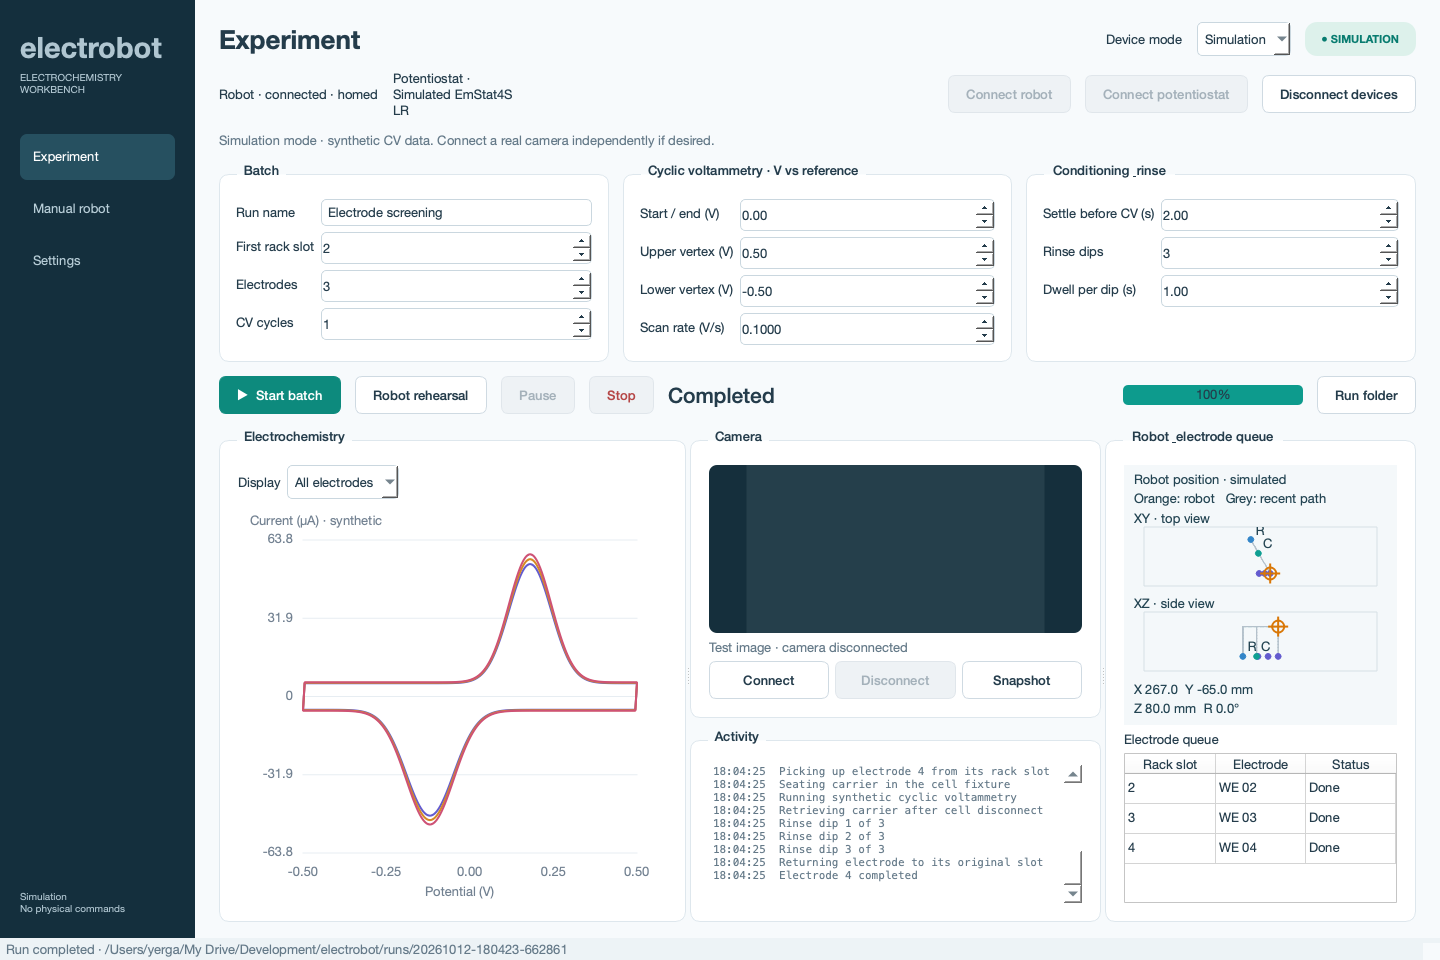
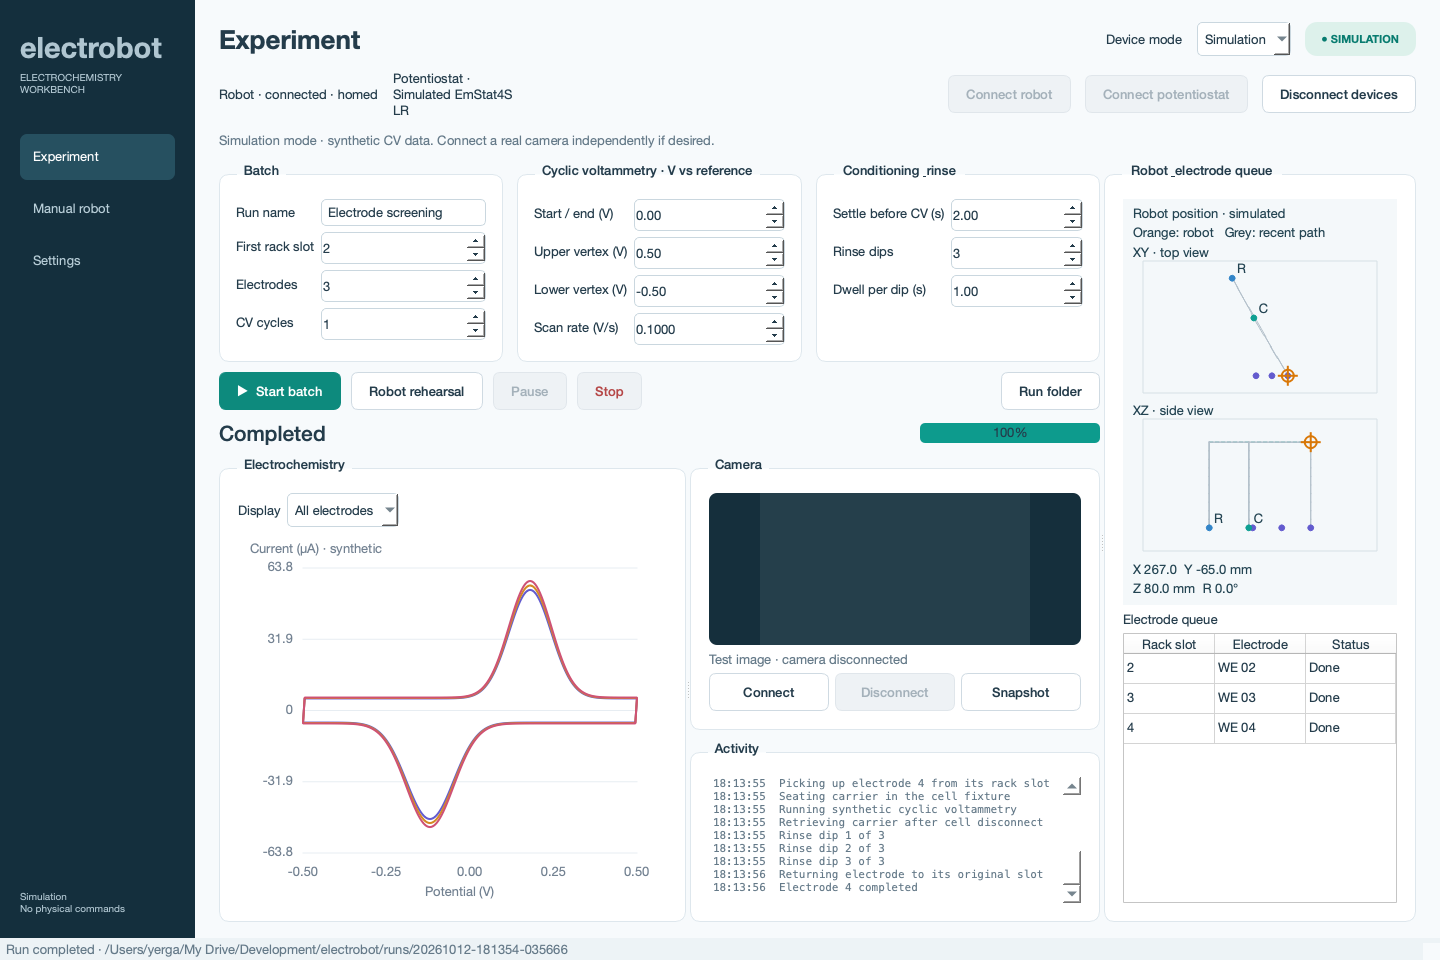
Raise Experiment robot panel and expand electrode queue

diff --git a/electrobot/app.py b/electrobot/app.py
@@ -190,6 +190,9 @@ class Window(QMainWindow):
         for b in (self.connect_robot,self.connect_pot,self.disconnect): devices.addWidget(b)
         l.addLayout(devices)
         self.mode_note=self.note('Simulation mode · synthetic CV data. Connect a real camera independently if desired.'); l.addWidget(self.mode_note)
+        dashboard=QSplitter(Qt.Orientation.Horizontal)
+        experiment=QWidget(); experiment_layout=QVBoxLayout(experiment); experiment_layout.setContentsMargins(0,0,0,0); experiment_layout.setSpacing(10)
+        dashboard.addWidget(experiment)
         self.setup_box=QWidget(); setup=QHBoxLayout(self.setup_box); setup.setContentsMargins(0,0,0,0); setup.setSpacing(14)
         self.batch_group=self.settings_group('Batch', [('run_name','Run name'),('first_electrode','First rack slot',1,100),('electrodes','Electrodes',1,100),('cycles','CV cycles',1,100)])
         self.cv_group=self.settings_group('Cyclic voltammetry · V vs reference', [('start_v','Start / end (V)',-3,3),('vertex1_v','Upper vertex (V)',-3,3),('vertex2_v','Lower vertex (V)',-3,3),('scan_rate','Scan rate (V/s)',.0001,10)])
@@ -198,12 +201,14 @@ class Window(QMainWindow):
             group.layout().setVerticalSpacing(6)
             group.setStyleSheet('QSpinBox,QDoubleSpinBox,QLineEdit { padding:4px; }')
             setup.addWidget(group,1)
-        l.addWidget(self.setup_box)
+        experiment_layout.addWidget(self.setup_box)
         actions=QHBoxLayout(); self.start=button('▶  Start batch',self.start_run,True); self.pause=button('Pause',self.pause_run); self.stop=button('Stop',self.stop_run); self.stop.setObjectName('danger')
         self.rehearse=button('Robot rehearsal',lambda:self.start_run(rehearsal=True))
-        actions.addWidget(self.start); actions.addWidget(self.rehearse); actions.addWidget(self.pause); actions.addWidget(self.stop); self.state=QLabel('Ready'); self.state.setObjectName('metric'); actions.addWidget(self.state); actions.addStretch()
-        self.progress=QProgressBar(); self.progress.setFixedWidth(180); self.progress.setRange(0,self.s.electrodes); self.progress.setValue(0); actions.addWidget(self.progress)
-        actions.addWidget(button('Run folder',self.open_output)); l.addLayout(actions)
+        actions.addWidget(self.start); actions.addWidget(self.rehearse); actions.addWidget(self.pause); actions.addWidget(self.stop); actions.addStretch()
+        actions.addWidget(button('Run folder',self.open_output)); experiment_layout.addLayout(actions)
+        run_status=QHBoxLayout(); self.state=QLabel('Ready'); self.state.setObjectName('metric'); run_status.addWidget(self.state); run_status.addStretch()
+        self.progress=QProgressBar(); self.progress.setFixedWidth(180); self.progress.setRange(0,self.s.electrodes); self.progress.setValue(0); run_status.addWidget(self.progress)
+        experiment_layout.addLayout(run_status)
         self.main_split=QSplitter(Qt.Orientation.Horizontal)
         graph,gl=card('Electrochemistry'); tools=QHBoxLayout(); tools.addWidget(QLabel('Display')); self.plot_selection=QComboBox(); self.plot_selection.addItem('All electrodes',None)
         self.plot_selection.currentIndexChanged.connect(self.select_plot); tools.addWidget(self.plot_selection); tools.addStretch(); gl.addLayout(tools)
@@ -217,15 +222,17 @@ class Window(QMainWindow):
         activity,al=card('Activity'); self.log=QPlainTextEdit(); self.log.setReadOnly(True); self.log.setMaximumBlockCount(2000); self.log.setMinimumHeight(60); al.addWidget(self.log); rl.addWidget(activity,2)
         self.main_split.addWidget(right)
         electrodes,el=card('Robot & electrode queue')
-        self.experiment_tracker=RobotTracker(); el.addWidget(self.experiment_tracker,1)
+        self.experiment_tracker=RobotTracker(); self.experiment_tracker.setMinimumHeight(340); el.addWidget(self.experiment_tracker,3)
         el.addWidget(QLabel('Electrode queue'))
         self.queue_table=QTableWidget(0,3); self.queue_table.setHorizontalHeaderLabels(['Rack slot','Electrode','Status']); self.queue_table.verticalHeader().hide()
         self.queue_table.horizontalHeader().setSectionResizeMode(QHeaderView.ResizeMode.Stretch); self.queue_table.setEditTriggers(QAbstractItemView.EditTrigger.NoEditTriggers)
-        self.queue_table.setMinimumSize(240,60); el.addWidget(self.queue_table)
-        self.main_split.addWidget(electrodes)
-        self.main_split.setSizes([432,380,288])
-        for index,stretch in enumerate((39,35,26)): self.main_split.setStretchFactor(index,stretch)
-        l.addWidget(self.main_split,1)
+        self.queue_table.setMinimumSize(240,140); el.addWidget(self.queue_table,2)
+        dashboard.addWidget(electrodes)
+        self.main_split.setSizes([432,380])
+        for index,stretch in enumerate((53,47)): self.main_split.setStretchFactor(index,stretch)
+        experiment_layout.addWidget(self.main_split,1)
+        dashboard.setSizes([812,288]); dashboard.setStretchFactor(0,74); dashboard.setStretchFactor(1,26)
+        l.addWidget(dashboard,1)
         self.camera_buttons_update()
     def make_manual(self):
         w,outer=self.page(); split=QSplitter(Qt.Orientation.Horizontal)
